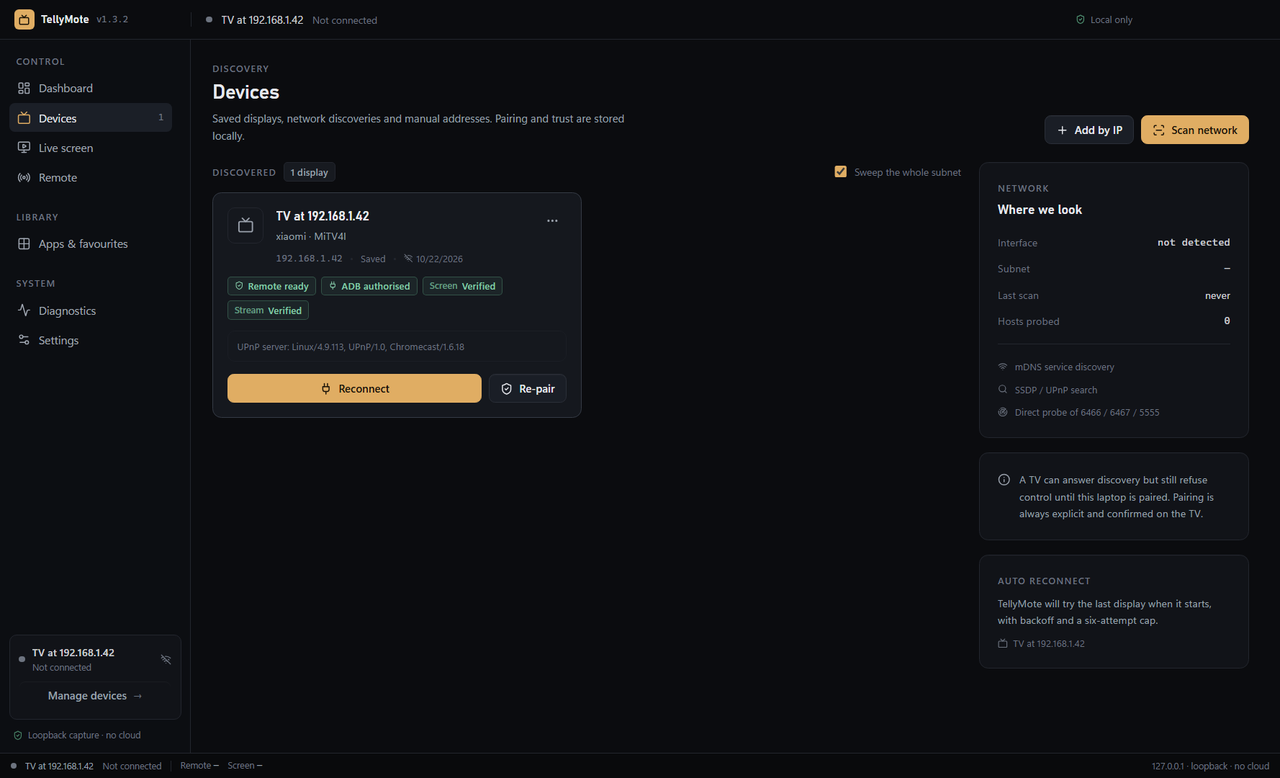
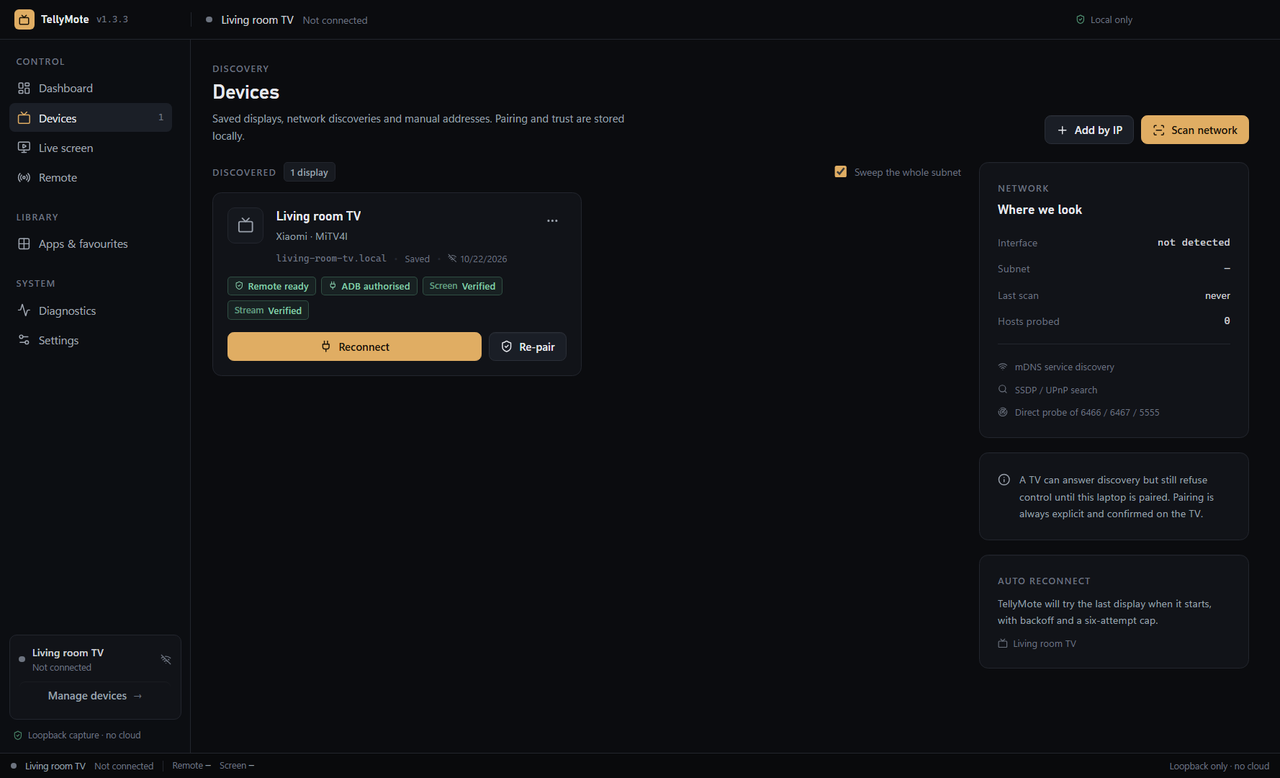
media: replace all addresses with a generic example device; drop diagnostics shot

diff --git a/mobile/android/core/src/test/kotlin/com/tellymote/core/DiscoveryTest.kt b/mobile/android/core/src/test/kotlin/com/tellymote/core/DiscoveryTest.kt
@@ -12,23 +12,23 @@ class DiscoveryTest {
         val message = """
             HTTP/1.1 200 OK
             CACHE-CONTROL: max-age=1800
-            LOCATION: http://192.168.0.42:8060/dial/dd.xml
+            LOCATION: http://192.0.2.42:8060/dial/dd.xml
             SERVER: Linux/4.9 UPnP/1.0 Roku/12.0
             ST: roku:ecp
         """.trimIndent()
         val headers = Ssdp.parseHeaders(message)
-        assertEquals("http://192.168.0.42:8060/dial/dd.xml", headers["LOCATION"])
+        assertEquals("http://192.0.2.42:8060/dial/dd.xml", headers["LOCATION"])
         assertEquals("roku:ecp", headers["ST"])
         assertTrue(headers["SERVER"]!!.contains("Roku"))
     }
 
     @Test
     fun buildsA24BitHostListWithoutTheLocalAddress() {
-        val local = InetAddress.getByName("192.168.0.42") as Inet4Address
+        val local = InetAddress.getByName("192.0.2.42") as Inet4Address
         val hosts = Discovery.subnetHosts(local)
         assertEquals(253, hosts.size)
-        assertTrue("192.168.0.1" in hosts)
-        assertTrue("192.168.0.254" in hosts)
-        assertTrue("192.168.0.42" !in hosts)
+        assertTrue("192.0.2.1" in hosts)
+        assertTrue("192.0.2.254" in hosts)
+        assertTrue("192.0.2.42" !in hosts)
     }
 }

diff --git a/docs/download.html b/docs/download.html
@@ -173,10 +173,6 @@
             <img src="media/settings.png" width="1280" height="778" alt="Settings: theme, capture preference, keyboard shortcuts and privacy options." />
             <figcaption>Settings — capture preference, shortcuts, export privacy.</figcaption>
           </figure>
-          <figure>
-            <img src="media/diagnostics.png" width="1280" height="778" alt="Diagnostics with per-stage latency and a redacted JSON export." />
-            <figcaption>Diagnostics — per-stage latency and redacted exports.</figcaption>
-          </figure>
         </div>
       </section>
 

diff --git a/electron/core/session.ts b/electron/core/session.ts
@@ -321,7 +321,7 @@ export class LumaSession {
   async addManual(hostInput: string, name?: string): Promise<DiscoveredDevice> {
     const host = hostInput.trim();
     if (!/^[a-zA-Z0-9.-]{1,253}$/.test(host)) {
-      throw appError('INVALID_INPUT', 'Enter an IPv4 address such as 192.168.0.42, or a hostname.');
+      throw appError('INVALID_INPUT', 'Enter an IPv4 address such as 192.0.2.42, or a hostname.');
     }
     const resolved = net.isIPv4(host) ? host : await this.resolveHost(host);
     if (!resolved) throw appError('TV_NOT_FOUND', `Could not resolve ${host} on this network.`);

diff --git a/src/views/Devices.tsx b/src/views/Devices.tsx
@@ -73,7 +73,7 @@ export function Devices({ onNavigate }: { onNavigate: (view: ViewId) => void }) 
               <span className="eyebrow mb-1.5 block">Address</span>
               <input
                 className="field"
-                placeholder="192.168.0.42"
+                placeholder="192.0.2.42"
                 value={host}
                 autoFocus
                 spellCheck={false}

diff --git a/src/components/StatusBar.tsx b/src/components/StatusBar.tsx
@@ -50,7 +50,7 @@ export function StatusBar() {
           scanning {state.scan.hostsProbed}/{state.scan.hostsTotal}
         </span>
       )}
-      <span className="ml-auto hidden xl:inline">127.0.0.1 · loopback · no cloud</span>
+      <span className="ml-auto hidden xl:inline">Loopback only · no cloud</span>
     </footer>
   );
 }

diff --git a/docs/SETUP.md b/docs/SETUP.md
@@ -10,7 +10,7 @@ same network. Menu names vary slightly by firmware; the app never depends on a s
 
 | Requirement | Why |
 | --- | --- |
-| PC and TV on the **same subnet** (e.g. `192.168.0.0/24`) | Every protocol is link-local. |
+| PC and TV on the **same subnet** (e.g. `192.0.2.0/24`) | Every protocol is link-local. |
 | Client/AP isolation **off** | Guest Wi-Fi and some mesh systems block device-to-device traffic. |
 | Multicast (mDNS/SSDP) allowed, or manual IP entry | Some routers filter multicast; manual entry bypasses it. |
 | TV awake or in standby with network standby enabled | A fully powered-off TV cannot answer. |
@@ -39,7 +39,7 @@ but manual IP entry and the direct TCP probe still work.
 1. Open **Devices**.
 2. Press **Scan network**. mDNS, SSDP and a direct probe of TCP `6466`, `6467` and `5555` run in
    parallel for about five seconds.
-3. If nothing appears, use **Add by IP address** (e.g. `192.168.0.42`). The app probes the address
+3. If nothing appears, use **Add by IP address** (e.g. `192.0.2.42`). The app probes the address
    directly and tells you which services answered.
 
 Results are labelled by source (`mDNS`, `SSDP`, `Probe`, `Manual`, `Saved`). A device is only marked

diff --git a/docs/TROUBLESHOOTING.md b/docs/TROUBLESHOOTING.md
@@ -8,7 +8,7 @@ the authenticated transports, ADB state, measured latency and a list of suggeste
 
 | Check | What to do |
 | --- | --- |
-| Same subnet? | `Devices → Network` must show the TV's subnet, e.g. `192.168.0.0/24`. A `172.x` or VPN adapter means the wrong interface was picked. |
+| Same subnet? | `Devices → Network` must show the TV's subnet, e.g. `192.0.2.0/24`. A `172.x` or VPN adapter means the wrong interface was picked. |
 | TV awake? | Some TVs drop off Wi-Fi in deep standby. Wake it with its own remote and rescan. |
 | Multicast blocked? | Use `Add by IP address`. The direct probe does not need mDNS/SSDP. |
 | AP/client isolation? | Guest networks and some mesh systems isolate clients. Move both devices to the main SSID. |

diff --git a/docs/BUILD.md b/docs/BUILD.md
@@ -151,7 +151,7 @@ The **Android** GitHub Actions workflow installs the SDK and uploads the APK as
 node -v; npm -v
 Get-Command rustc,cargo,adb -ErrorAction SilentlyContinue
 Get-NetIPConfiguration | Where-Object { $_.IPv4Address } | Select-Object InterfaceAlias, IPv4Address
-Test-NetConnection 192.168.0.1 -Port 6466   # example probe
+Test-NetConnection 192.0.2.1 -Port 6466   # example probe
 ```
 
 ## Common build problems
